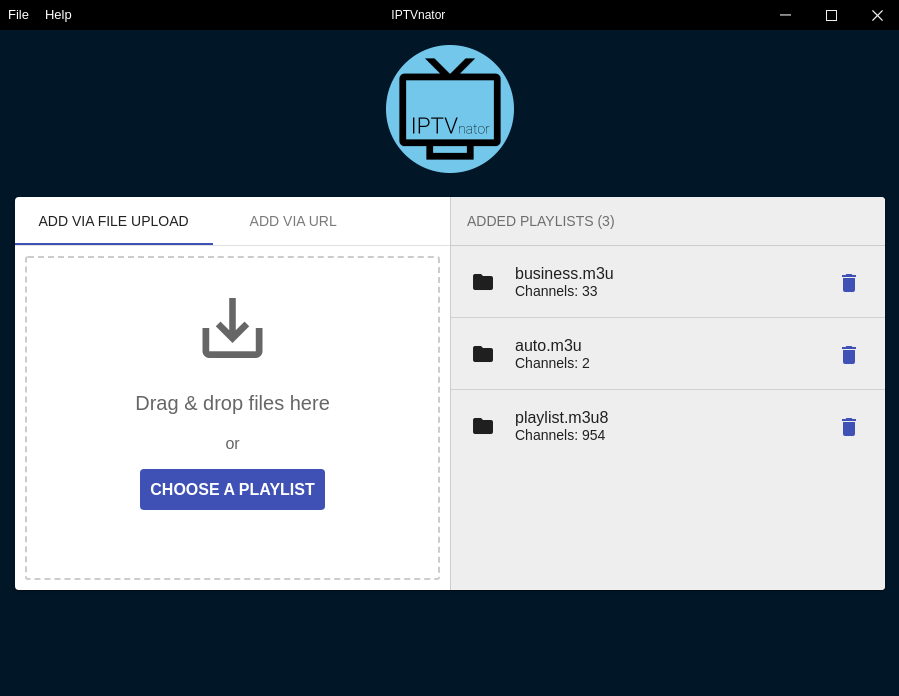
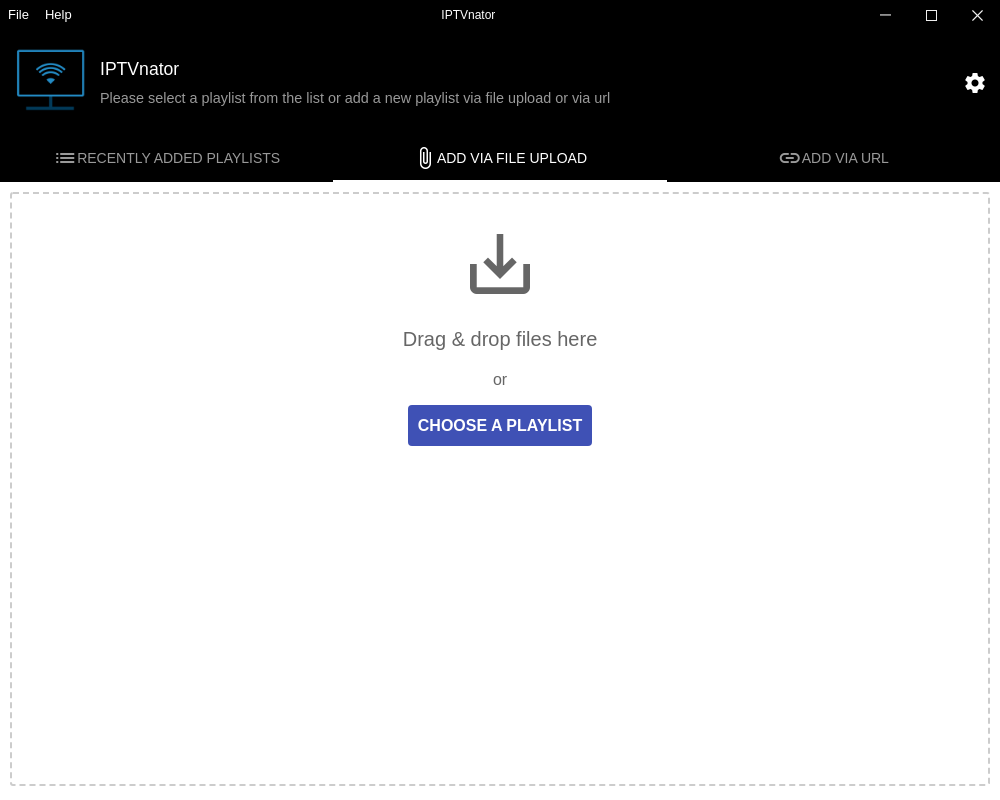
chore: release v0.2.0

diff --git a/README.md b/README.md
@@ -22,9 +22,11 @@ First version of the application which was developed as a PWA is available in an
 -   Save channels as favorites (DEV)
 
 
-|                       Select/upload a playlist                       |                   Main player interface                   |
-| :------------------------------------------------------------------: | :-------------------------------------------------------: |
-| ![List with added playlists and upload interface](./iptv-upload.png) | ![Sidebar with channel and video player](./iptv-main.png) |
+| Welcome screen: Playlists overview                           | Main player interface with channels sidebar and video player                |
+| :----------------------------------------------------------: | :-------------------------------------------------------: |
+| ![Welcome screen: Playlists overview](./playlists.png)       | ![Sidebar with channel and video player](./iptv-main.png) |
+| Welcome screen: Add playlist via file upload                | Welcome screen: Add playlist via URL                      |
+| ![Welcome screen: Add playlist via file upload](./iptv-upload.png) | ![Welcome screen: Add playlist via URL](./upload-via-url.png)             |
 
 # Download
 

diff --git a/CHANGELOG.md b/CHANGELOG.md
@@ -1,3 +1,15 @@
+# [0.2.0](https://github.com/4gray/iptvnator/compare/v0.1.0...v0.2.0) (2020-09-27)
+
+
+### Features
+
+* add new video.js based player ([1e852e3](https://github.com/4gray/iptvnator/commit/1e852e389931e18ccfaf78f21c86df5dfe81ad6d))
+* add settings page ([1a44ecd](https://github.com/4gray/iptvnator/commit/1a44ecd995d212e9597c44353fa049e4f07f0ab7))
+* video player configuration in app settings ([05c0c25](https://github.com/4gray/iptvnator/commit/05c0c251cf92ad17788628f5c8d8d8107e935d94))
+* redesign welcome/upload page
+
+
+
 # [0.1.0](https://github.com/4gray/iptvnator/compare/v0.0.2...v0.1.0) (2020-09-12)
 
 
